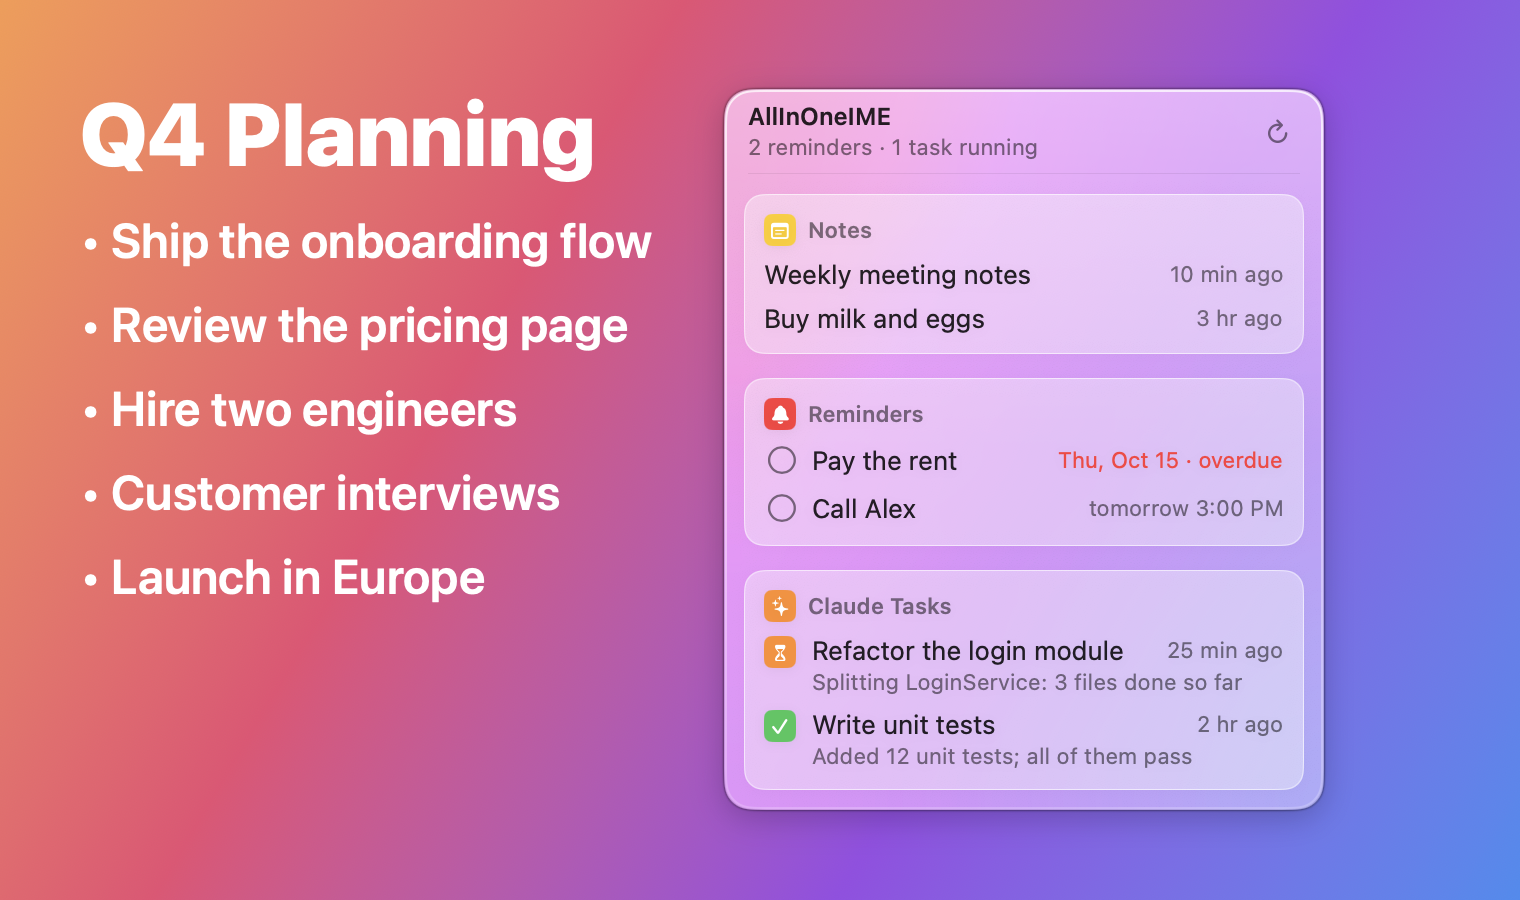
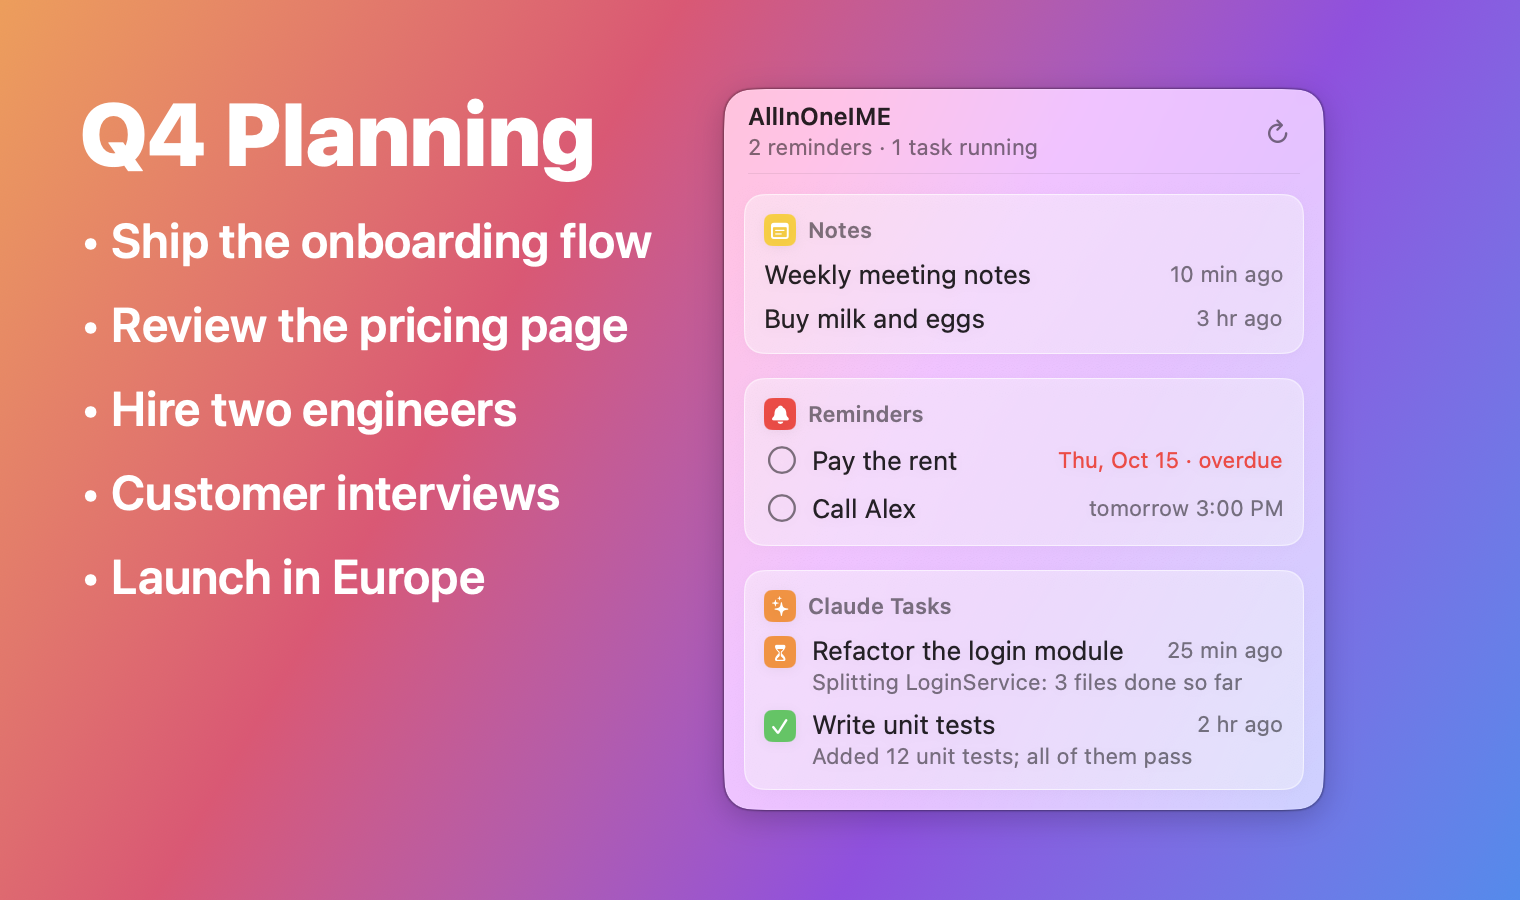
Candidate panel and menu bar panel on the system's glass
Liquid Glass (NSGlassEffectView) on macOS 26, following Clear or Tinted
in Appearance; the menu material before. Both turn solid with Reduce
Transparency. Offscreen images keep the solid background. --showcase
captures the candidate panel too (docs/candidates-glass.png).

Changed region(s): [[0.4638, 0.2178, 0.8967, 0.9022], [0.5257, 0.0933, 0.8349, 0.1244]]

diff --git a/Sources/AllInOneIME/FloatingPanel.swift b/Sources/AllInOneIME/FloatingPanel.swift
@@ -951,23 +951,27 @@ struct FloatingPanelView: View {
         .frame(width: FloatingPanel.width)
         .background {
             ZStack {
-                if Self.glass { GlassView() } else { Color(nsColor: CandidateView.background) }
-                // Light falling on the glass from above.
-                LinearGradient(colors: [.white.opacity(dark ? 0.07 : 0.28), .white.opacity(0)],
-                               startPoint: .top, endPoint: .center)
+                if Self.glass { GlassView(cornerRadius: Self.cornerRadius) } else { Color(nsColor: CandidateView.background) }
+                // Light falling on the glass from above (Liquid Glass lights itself).
+                if !GlassView.isLiquid {
+                    LinearGradient(colors: [.white.opacity(dark ? 0.07 : 0.28), .white.opacity(0)],
+                                   startPoint: .top, endPoint: .center)
+                }
             }
         }
         .clipShape(shape)
-        .overlay(
+        .overlay {
             // A bright upper edge fading downwards, the edge of a glass pane, over a hairline that keeps it
-            // apart from a background of the same color.
-            ZStack {
-                shape.strokeBorder(Color.black.opacity(dark ? 0.5 : 0.1), lineWidth: 0.5)
-                shape.strokeBorder(LinearGradient(colors: [.white.opacity(dark ? 0.28 : 0.75), .white.opacity(dark ? 0.04 : 0.2)],
-                                                  startPoint: .top, endPoint: .bottom), lineWidth: 1)
-                    .padding(0.5)
+            // apart from a background of the same color (Liquid Glass draws its own edge).
+            if !GlassView.isLiquid || !Self.glass {
+                ZStack {
+                    shape.strokeBorder(Color.black.opacity(dark ? 0.5 : 0.1), lineWidth: 0.5)
+                    shape.strokeBorder(LinearGradient(colors: [.white.opacity(dark ? 0.28 : 0.75), .white.opacity(dark ? 0.04 : 0.2)],
+                                                      startPoint: .top, endPoint: .bottom), lineWidth: 1)
+                        .padding(0.5)
+                }
             }
-        )
+        }
         .onPreferenceChange(ListHeightKey.self) { height in
             // Collapsed, the lists are gone: their height is kept for when they're back.
             MainActor.assumeIsolated { panel.listHeight = height }
@@ -1255,9 +1259,22 @@ struct FloatingPanelView: View {
     }
 }
 
-/// The panel's frosted glass: the windows behind it, blurred, in the light or dark mode's tint.
+/// The panel's glass, the system's own like the candidate panel's: Liquid Glass on macOS 26 (Clear or
+/// Tinted, as set in Appearance), a frosted material before; both solid with Reduce Transparency.
 private struct GlassView: NSViewRepresentable {
-    func makeNSView(context: Context) -> NSVisualEffectView {
+    var cornerRadius: CGFloat
+
+    static var isLiquid: Bool {
+        if #available(macOS 26.0, *) { return true }
+        return false
+    }
+
+    func makeNSView(context: Context) -> NSView {
+        if #available(macOS 26.0, *) {
+            let glass = NSGlassEffectView()
+            glass.cornerRadius = cornerRadius
+            return glass
+        }
         let view = NSVisualEffectView()
         view.material = .hudWindow
         view.blendingMode = .behindWindow
@@ -1265,7 +1282,7 @@ private struct GlassView: NSViewRepresentable {
         return view
     }
 
-    func updateNSView(_ view: NSVisualEffectView, context: Context) {}
+    func updateNSView(_ view: NSView, context: Context) {}
 }
 
 /// A soft highlight under the pointer.

diff --git a/Sources/AllInOneIME/CandidatePanel.swift b/Sources/AllInOneIME/CandidatePanel.swift
@@ -33,7 +33,33 @@ final class CandidatePanel: NSPanel {
         // Just below the cursor level: stays above full-screen apps and popup menus.
         level = NSWindow.Level(rawValue: Int(CGWindowLevelForKey(.cursorWindow)) - 100)
         collectionBehavior = [.canJoinAllSpaces, .fullScreenAuxiliary, .stationary, .ignoresCycle]
-        contentView = view
+        view.drawsBackground = false
+        contentView = Self.glass(around: view)
+    }
+
+    /// The system's own material behind the rows, so the panel looks like the system's menus and follows
+    /// its settings: Liquid Glass on macOS 26 (Clear or Tinted, as set in Appearance), the menu material
+    /// before; both turn solid with Reduce Transparency (Accessibility → Display).
+    private static func glass(around view: NSView) -> NSView {
+        view.autoresizingMask = [.width, .height]
+        if #available(macOS 26.0, *) {
+            let glass = NSGlassEffectView()
+            glass.cornerRadius = CandidateView.Metrics.cornerRadius
+            glass.contentView = view
+            return glass
+        }
+        let effect = NSVisualEffectView()
+        effect.material = .menu
+        effect.blendingMode = .behindWindow
+        effect.state = .active  // the panel is never key: keep it frosted
+        let radius = CandidateView.Metrics.cornerRadius
+        effect.maskImage = NSImage(size: NSSize(width: radius * 2 + 1, height: radius * 2 + 1), flipped: false) { rect in
+            NSColor.black.setFill()
+            NSBezierPath(roundedRect: rect, xRadius: radius, yRadius: radius).fill()
+            return true
+        }.with { $0.capInsets = NSEdgeInsets(top: radius, left: radius, bottom: radius, right: radius); $0.resizingMode = .stretch }
+        effect.addSubview(view)
+        return effect
     }
 
     override var canBecomeKey: Bool { false }
@@ -160,6 +186,10 @@ final class CandidateView: NSView {
         var labelOrigin: NSPoint
         var iconFrame: NSRect?
     }
+
+    /// Its own solid background: off in the panel, where the system's glass is behind it (`CandidatePanel`);
+    /// on for an offscreen image, which has nothing behind it to blur.
+    var drawsBackground = true
 
     var model = Model() {
         didSet { if model != oldValue { relayout() } }
@@ -302,11 +332,13 @@ final class CandidateView: NSView {
     override func draw(_ dirtyRect: NSRect) {
         let shape = NSBezierPath(
             roundedRect: bounds.insetBy(dx: 0.5, dy: 0.5), xRadius: Metrics.cornerRadius, yRadius: Metrics.cornerRadius)
-        Self.background.setFill()
-        shape.fill()
-        NSColor.separatorColor.setStroke()
-        shape.lineWidth = 1
-        shape.stroke()
+        if drawsBackground {
+            Self.background.setFill()
+            shape.fill()
+            NSColor.separatorColor.setStroke()
+            shape.lineWidth = 1
+            shape.stroke()
+        }
 
         for (index, layout) in rowLayouts.enumerated() where index < model.rows.count {
             let highlighted = index == model.highlighted
@@ -369,5 +401,13 @@ final class CandidateView: NSView {
         if let index = rowLayouts.firstIndex(where: { $0.frame.contains(point) }) {
             onSelect?(index)
         }
+    }
+}
+
+
+private extension NSImage {
+    func with(_ change: (NSImage) -> Void) -> NSImage {
+        change(self)
+        return self
     }
 }

diff --git a/Sources/AllInOneIME/PanelShowcase.swift b/Sources/AllInOneIME/PanelShowcase.swift
@@ -45,6 +45,27 @@ enum PanelShowcase {
         DispatchQueue.main.asyncAfter(deadline: .now() + 2) {
             MainActor.assumeIsolated {
                 capture("panel.png")
+                // The candidate panel, as under a line being typed at the backdrop's left.
+                panel.closeDropDown()
+                let rows = (chinese ? ["哦", "噢", "喔", "欧", "偶"] : ["oh", "ok", "of", "on", "out"]).enumerated().map {
+                    CandidateView.Row(label: "\($0.offset + 1)", text: $0.element, style: .candidate)
+                }
+                let line = NSRect(x: backdrop.minX + 60, y: backdrop.maxY - 150, width: 2, height: 20)
+                CandidatePanel.shared.appearance = appearance
+                CandidatePanel.shared.show(CandidateView.Model(rows: rows, highlighted: 0,
+                                                               footer: chinese ? "空格 选词 · 开头打 @ 用命令" : "Space picks · @ for commands"),
+                                           anchor: line)
+            }
+        }
+        DispatchQueue.main.asyncAfter(deadline: .now() + 2.8) {
+            MainActor.assumeIsolated {
+                capture("candidates.png")
+                CandidatePanel.shared.hide()
+                panel.show(below: anchor)
+            }
+        }
+        DispatchQueue.main.asyncAfter(deadline: .now() + 4.4) {
+            MainActor.assumeIsolated {
                 if case let .list(rows) = panel.tasks, let row = rows.first { panel.showSwiped(.task(row.id)) }
                 DispatchQueue.main.asyncAfter(deadline: .now() + 0.8) {
                     MainActor.assumeIsolated {

diff --git a/Sources/AllInOneIME/SelfTest.swift b/Sources/AllInOneIME/SelfTest.swift
@@ -1399,7 +1399,11 @@ enum SelfTest {
     static func snapshot(_ name: String, in directory: URL, appearance: NSAppearance.Name = .aqua) {
         let view = CandidatePanel.shared.view
         view.appearance = NSAppearance(named: appearance)
-        defer { view.appearance = nil }
+        view.drawsBackground = true  // nothing behind an offscreen image to blur
+        defer {
+            view.appearance = nil
+            view.drawsBackground = false
+        }
         let url = directory.appendingPathComponent("\(name).png")
         guard let rep = view.bitmapImageRepForCachingDisplay(in: view.bounds) else { return }
         view.cacheDisplay(in: view.bounds, to: rep)

diff --git a/CHANGELOG.zh-CN.md b/CHANGELOG.zh-CN.md
@@ -10,6 +10,7 @@
 
 ### 改动
 
+- 候选词面板和菜单栏面板改用系统自己的玻璃效果，和系统菜单一样：macOS 26 及以后是 Liquid Glass（跟着「系统设置 → 外观」里的「透明」或「着色」走），更早的系统是毛玻璃；打开「辅助功能 → 显示 → 降低透明度」两者都变成不透明。
 - 设置窗口改成「系统设置」那样的布局：左边是搜索框和分页（通用、输入、翻译与改写、自定义命令、插件、语音输入、AI 服务、高级、关于），右边每页的设置分组放在卡片里。下次打开停在你上次看的那一页。
 
 ## 0.6.1（2026-10-12）

diff --git a/CHANGELOG.md b/CHANGELOG.md
@@ -10,6 +10,7 @@ English | [中文](CHANGELOG.zh-CN.md)
 
 ### Changed
 
+- The candidate panel and the menu bar panel use the system's own glass, as its menus do: Liquid Glass on macOS 26 and later (Clear or Tinted, as set in System Settings → Appearance), a frosted material before; both turn solid with Reduce Transparency (Accessibility → Display).
 - The settings window is laid out like System Settings: a sidebar with a search field and pages (General, Input, Translate & Rewrite, Custom Commands, Plugins, Voice Input, AI Provider, Advanced, About), each page's settings in grouped cards. It opens on the page you had last.
 
 ## 0.6.1 (2026-10-12)
